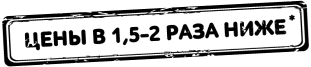
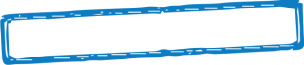
update the _logo.scss file

diff --git a/wp-content/themes/twentytwenty-child/css/base/items/_info.scss b/wp-content/themes/twentytwenty-child/css/base/items/_info.scss
@@ -3,35 +3,65 @@
     max-width: 20em;
 
     &__image {
+        display: flex;
+        align-items: center;
+        justify-content: center;
         width: 19.250em;
 	    height: 4.188em;
-        background: url('/wp-content/themes/twentytwenty-child/img/sprite.png') 0 -12.063em;
+        background: url('/wp-content/themes/twentytwenty-child/img/sprite.png') 0 -11.463em;
     }
 
+    &__text-price,
     &__text {
-        margin-top: 0;
-        font-size: 1.500em;
-        font-weight: 700;
+        color: #0E7CC1;
+        font-family: Verdana, sans-serif;
         transform: rotate(-3deg);
     }
 
-}
+    &__text-price {
+        font-weight: 700;
+        text-transform: uppercase;
+    } 
 
-@media (min-width: 960px) {
-    .info-price {
+    &__text {
+        transform: rotate(-3deg) translateX(2em); 
+    }
 
-        max-width: 26em;
+    @media (min-width: 768px) {
 
         &__image {
-            width: 25.688em;
-	        height: 5.563em;
-            background: url('/wp-content/themes/twentytwenty-child/img/sprite.png') 0 -16.250em;  
+            width: 13.125em;
+            height: 2.625em;
+            background-position-x: -0.500em;
+            background-position-y: -28.500em;
+        }
+        
+        &__text-price,
+        &__text {
+            color: $white;
+            font-size: 1.2rem;
         }
 
         &__text {
-            margin-left: 1em;
-            color: $white;
+            transform: rotate(-3deg) translateX(1em);
         }
 
     }
+
+    @media (min-width: 960px) {
+
+        &__image {
+            width: 411px;
+            height: 89px;
+            background-position-x: -0;
+            background-position-y: -260px;
+        }
+
+        &__text-price,
+        &__text {
+            font-size: 2.4rem;
+        }
+
+    }
+
 }

diff --git a/info.html b/info.html
@@ -7,12 +7,14 @@
 
     <link rel="stylesheet" href="/wp-content/themes/twentytwenty-child/css/style.css">
 </head>
-<body style="  background-color: #379DCB;">
-    <div class="wrapper-container" style="padding: 2em;">
+<body>
+    <div class="wrapper-container" style="padding: 2em; background-color:brown;">
 
 
         <div class="info-price">
-            <div class="info-price__image"></div>
+            <div class="info-price__image">
+                <p class="info-price__text-price">Цены в 1,5-2 раза ниже *</p>
+            </div>
             <p class="info-price__text">*средних по Тольятти</p>
         </div>
 

diff --git a/wp-content/themes/twentytwenty-child/css/base/all/_all.scss b/wp-content/themes/twentytwenty-child/css/base/all/_all.scss
@@ -26,6 +26,10 @@ body{
     box-sizing: border-box;
 }
 
+p {
+    margin: 0;
+}
+
 // контейнер сайта
 .header-inner, .container {
     max-width: 114rem;
@@ -57,7 +61,7 @@ body{
     cursor: pointer;
     background-color: $orange;
     color: $white;
-    border-radius: 6px;
+    border-radius: 0.375em;
     letter-spacing: 0.05em;
     text-transform: uppercase;
     font-weight: 900;

diff --git a/wp-content/themes/twentytwenty-child/css/base/items/_forms.scss b/wp-content/themes/twentytwenty-child/css/base/items/_forms.scss
@@ -1,3 +1,4 @@
+// Стилизация формы контактов
 .form-contacts {
     max-width: 33.5rem;
     margin-left: auto;
@@ -33,7 +34,7 @@
     &__phone {
         padding: 0.5em 0 0.5em 4em;
         border: 1px solid #D0D0D0;
-        border-radius: 6px;
+        border-radius: 0.375em;
         outline: none;
 
         &:focus {
